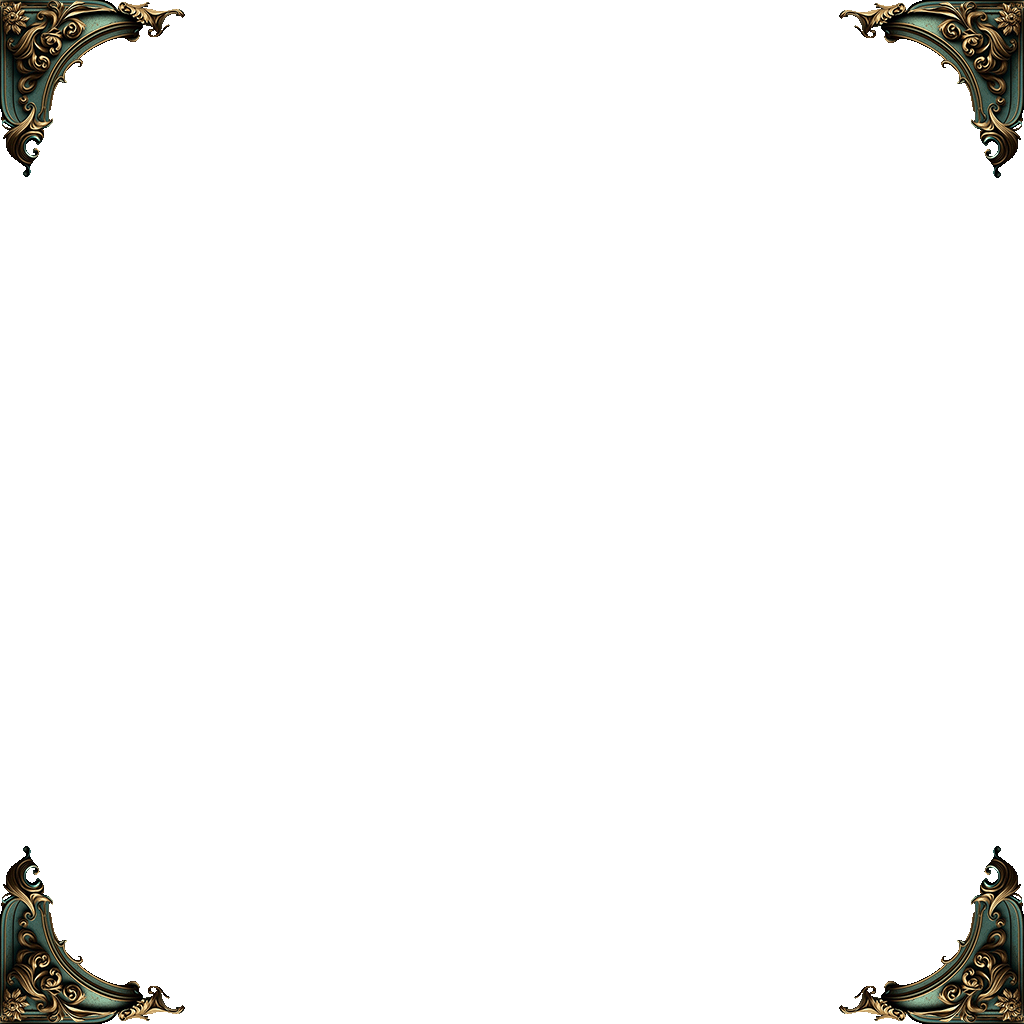
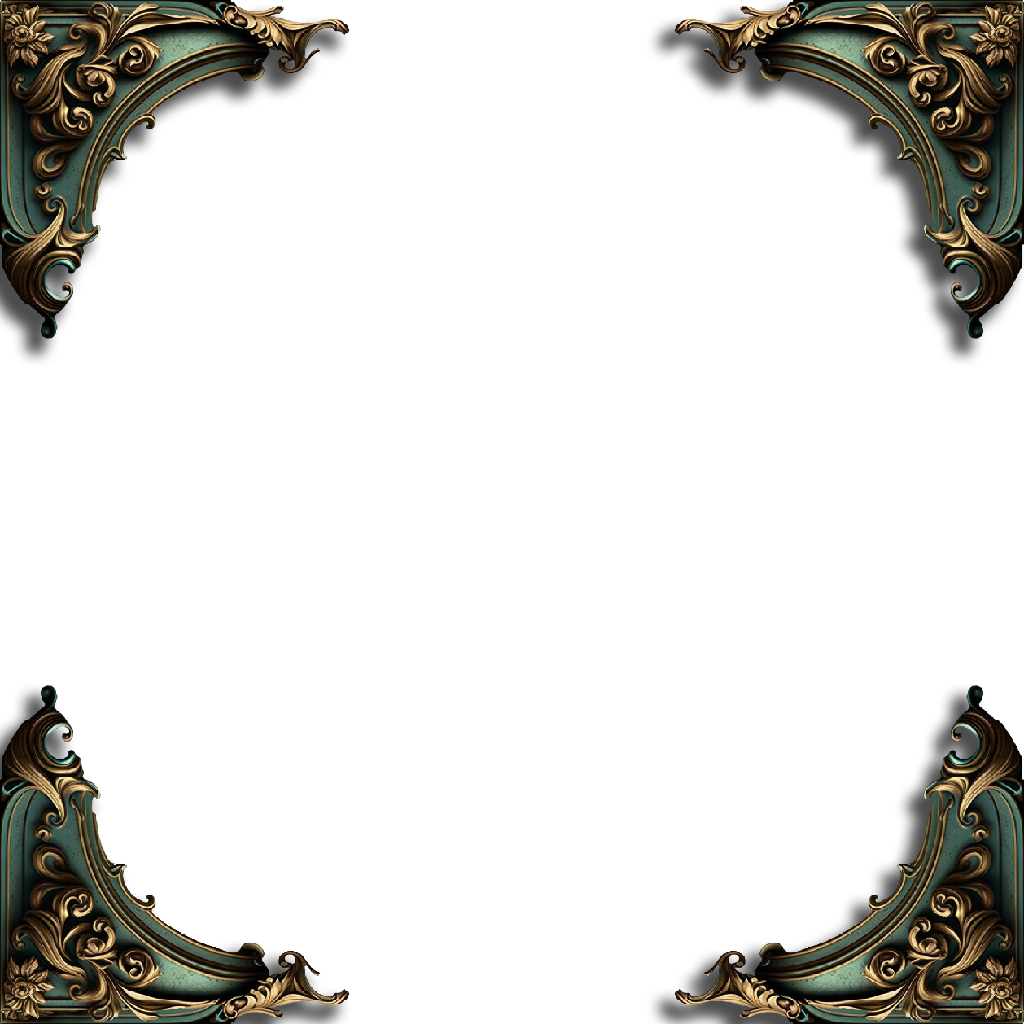
frame size adjustment to larger

diff --git a/static/styles.css b/static/styles.css
@@ -54,7 +54,7 @@ img {
 .img-c img{
     width: 100%;
     height: 300px;
-    object-position: 0% 95%;
+    object-position: 0% 90%;
     object-fit: cover;
 }
 .img-bs img {

diff --git a/app.py b/app.py
@@ -48,15 +48,16 @@ def process_quiz():
         q4 = request.form.get("q4")
         q5 = request.form.get("q5")
         q6 = request.form.get("q6")
-        charRealm = "Faerûn"
         charSex = request.form.get("charSex")
         charRace = request.form.get("charRace")
         charClass = request.form.get("charClass")
         charName = request.form.get("charName")
+        charRegion = request.form.get("charRegion")
+        charBackground = request.form.get("charBackground")
         
         # Use the answers to generate a backstory using the ChatGPT API
         if switch_state == True:
-            backstory = generate_backstory(q1, q2, q3, q4, q5, q6, charRealm, charSex, charRace, charClass, charName)
+            backstory = generate_backstory(q1, q2, q3, q4, q5, q6, charRegion, charSex, charRace, charClass, charName, charBackground)
         else:
             backstory = "Barriston grew up in a small secluded village, on the edge of the Realm of Davorel. His parents were members of an ancient line of Paladin Knights that had served the realm since its founding. He was raised to be dutiful and respectful, learning from an early age the importance of chivalry and honour. He watched as his village grew more prosperous over the years due to trade with travelers from far and wide. But as it did so, fear began to creep into everyday life--stories of bandits and monsters terrorising local merchants spread like wildfire, until eventually it became too dangerous for traders to enter their borders anymore. With no other options left, Barriston's parents decided to join a group of other villagers who set off together in search for safety elsewhere. They made their way southwards through treacherous terrain until they reached a large city called Sontacia that promised protection within its walls. It was there that Barriston found himself recruited by the local Paladin Order—an organization that dedicated itself solely to protecting those in need against any kind of oppression or threat. For several years he trained under these warriors' tutelage, honing his skills both in combat and diplomacy alike as he learnt what it meant to fight for justice while still remaining fair-minded and diplomatic towards all sides involved in any conflict he found himself embroiled in later on down his path. Now armed with both strength and chastity at his side, Barriston strives each day to make a difference–to protect those who cannot protect themselves; so that others may live without fear just as he once did growing up back home before tragedy struck them all those many years ago when he was yet but just a boy."
         
@@ -88,13 +89,13 @@ def process_quiz():
     
     return render_template("create.html", races=races, classes=classes, backgrounds=backgrounds)
 
-def generate_backstory(q1, q2, q3, q4, q5, q6, charRealm, charSex, charRace, charClass, charName):
+def generate_backstory(q1, q2, q3, q4, q5, q6, charRegion, charSex, charRace, charClass, charName, charBackground):
   # Use the ChatGPT API to generate a backstory based on the quiz answers
     response = openai.Completion.create(
         model="text-davinci-003",
         prompt=f"""Create a rich background story for a Dungeons & Dragons character.
                     {charSex} is a {charRace} {charClass} named {charName}.
-                    {charName} is from somewhere in {charRealm}.
+                    {charSex} is from {charRegion} and was a {charBackground}.
                     The character is motivated by {q1}. 
                     They feel {q2} about authority. 
                     {q3} is how they handle conflict.
